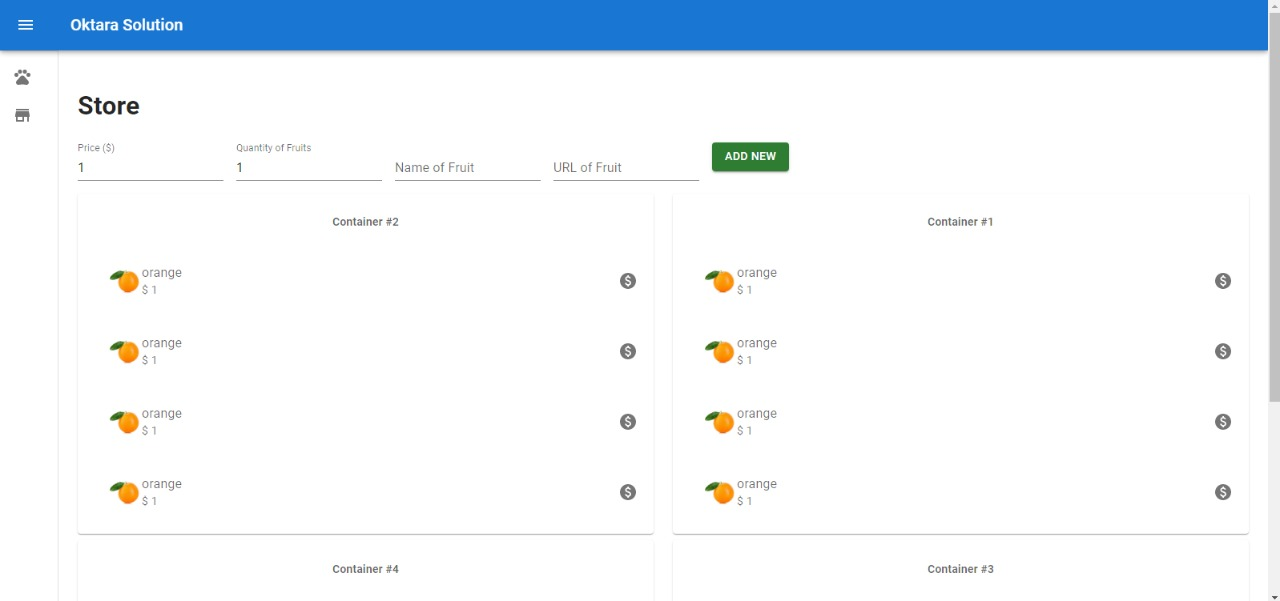
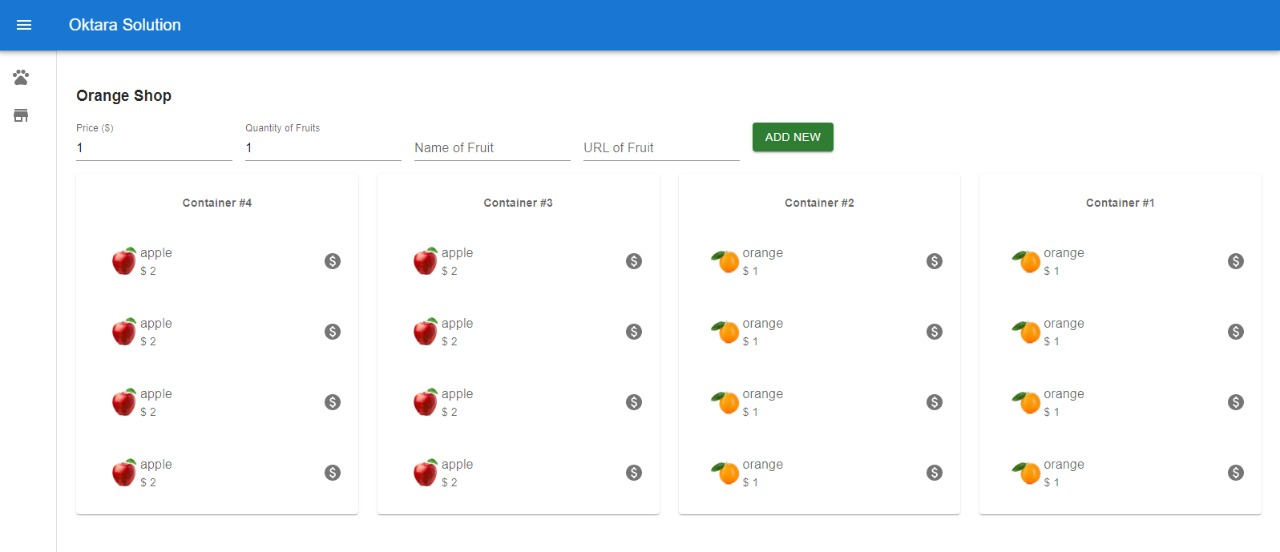
:octocat: Update Readme

diff --git a/client/src/components/store/Container.jsx b/client/src/components/store/Container.jsx
@@ -43,7 +43,7 @@ const Container = (props) => {
                 <Grid container rowSpacing={1} columnSpacing={{ xs: 1, sm: 2, md: 3 }}>
                     {cont && 
                         cont.map((item, i) => 
-                            <Grid item xs={6}>
+                            <Grid item xs={3}>
                                 <Item >
                                     <h4>Container #{item.id}</h4>
                                     {

diff --git a/client/src/components/store/Store.jsx b/client/src/components/store/Store.jsx
@@ -40,7 +40,7 @@ const Store = () => {
 
     return (
         <>
-            <h1>Store</h1>
+            <h3>Orange Shop</h3>
             <TextField
                 style={{ marginRight: "16px", marginBottom: "16px" }}
                 type="number"
